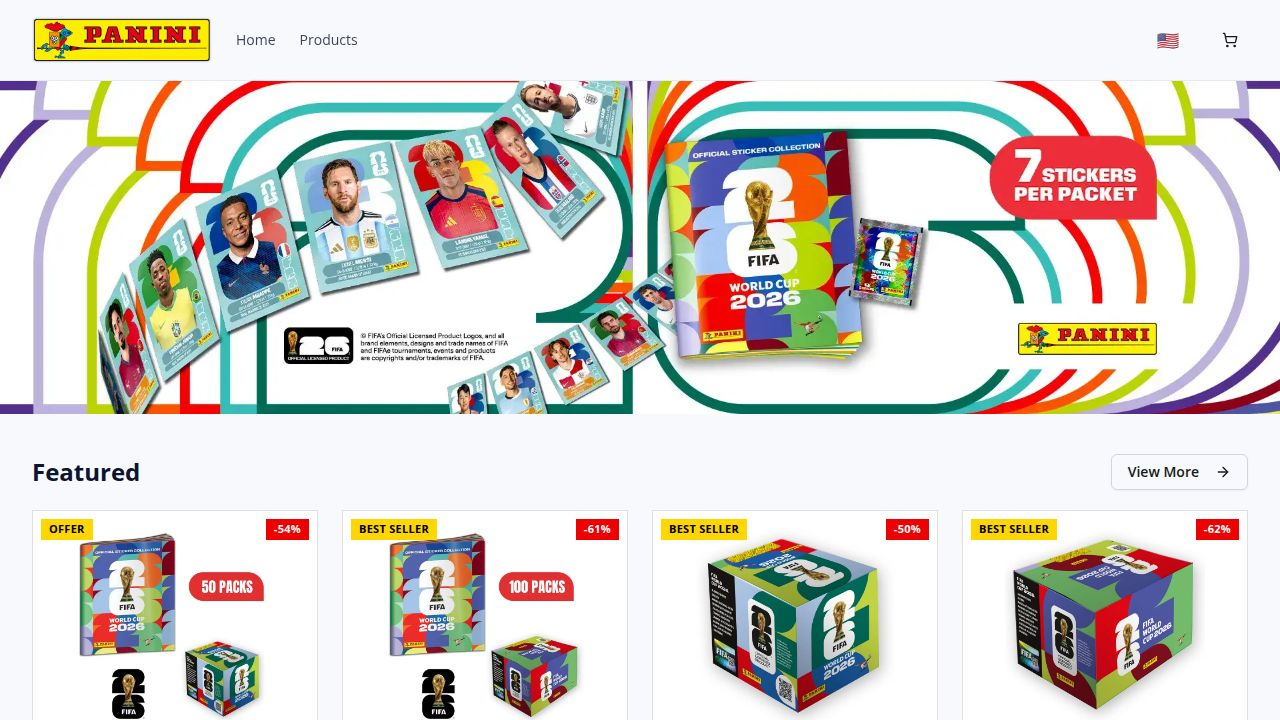
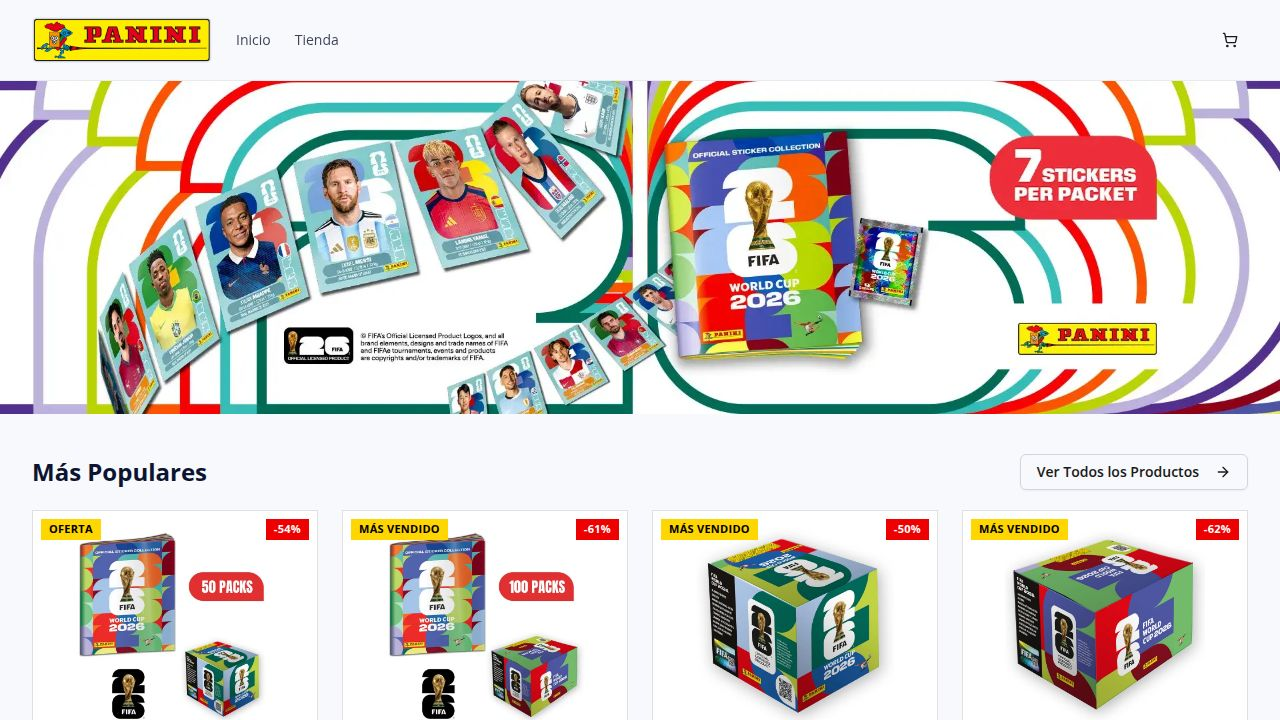
Update website to fully support Spanish language and sales funnel
Refactors the application to enforce Spanish as the default language, updates Spanish translations for sales copy, and changes product routes from `/produtos` to `/productos`.

Replit-Commit-Author: Agent
Replit-Commit-Session-Id: 779bff29-6fea-460b-911e-ac7c88d233c8
Replit-Commit-Checkpoint-Type: full_checkpoint
Replit-Commit-Event-Id: cc9ecb66-04fb-454a-875a-e0b6a70cea38
Replit-Commit-Screenshot-Url: https://storage.googleapis.com/screenshot-production-us-central1/0c2dbdec-3b9e-43bb-9eea-9a149eb06fe9/779bff29-6fea-460b-911e-ac7c88d233c8/kkzJF7l
Replit-Helium-Checkpoint-Created: true

diff --git a/artifacts/panini-wc2026/src/i18n/index.ts b/artifacts/panini-wc2026/src/i18n/index.ts
@@ -1,166 +1,23 @@
 import i18n from 'i18next';
 import { initReactI18next } from 'react-i18next';
 
-import ptBR from './locales/pt-BR.json';
-import en from './locales/en.json';
 import es from './locales/es.json';
-import de from './locales/de.json';
-import fr from './locales/fr.json';
-import it from './locales/it.json';
 
 const resources = {
-  'pt-BR': { translation: ptBR },
-  en: { translation: en },
   es: { translation: es },
-  de: { translation: de },
-  fr: { translation: fr },
-  it: { translation: it },
 };
 
-type SupportedLang = 'pt-BR' | 'en' | 'es' | 'de' | 'fr' | 'it';
-const SUPPORTED: SupportedLang[] = ['pt-BR', 'en', 'es', 'de', 'fr', 'it'];
-
-/**
- * Key for EXPLICIT user choices (clicking the language selector).
- * Separate from old auto-saved key to avoid stale 'en' fallbacks
- * from before French/Italian were added to the supported list.
- */
-const MANUAL_KEY = '_panini_lng_manual';
-
-/**
- * Resolves a raw BCP-47 tag to a supported language using:
- *  1. Exact match (case-insensitive, pt-BR == pt-br)
- *  2. All pt-* variants  → pt-BR  (pt-PT, pt-BR, pt, etc.)
- *  3. Language-prefix match: en-CA → en, es-MX → es, de-AT → de
- */
-function resolveTag(raw: string): SupportedLang | null {
-  const lower = raw.trim().toLowerCase().replace('_', '-');
-  const exact = SUPPORTED.find(s => s.toLowerCase() === lower);
-  if (exact) return exact;
-  const prefix = lower.split('-')[0];
-  if (prefix === 'pt') return 'pt-BR';
-  return SUPPORTED.find(s => s.toLowerCase().split('-')[0] === prefix) ?? null;
-}
-
-/**
- * Walks an ordered candidate list and returns the first supported language.
- * Returns { lang, confident: false } only when no candidate matched at all.
- */
-function pickLanguage(candidates: readonly string[]): { lang: SupportedLang; confident: boolean } {
-  for (const raw of candidates) {
-    const resolved = resolveTag(raw);
-    if (resolved) return { lang: resolved, confident: true };
-  }
-  return { lang: 'en', confident: false };
-}
-
-/**
- * Country → language map for IP-based fallback.
- * Only maps to non-English languages; missing entries fall back to English.
- */
-const COUNTRY_LANG: Record<string, SupportedLang> = {
-  BR: 'pt-BR', PT: 'pt-BR', AO: 'pt-BR', MZ: 'pt-BR', CV: 'pt-BR',
-  ST: 'pt-BR', GW: 'pt-BR', TL: 'pt-BR',
-  DE: 'de', AT: 'de', LI: 'de', CH: 'de',
-  ES: 'es', MX: 'es', AR: 'es', CO: 'es', CL: 'es', PE: 'es',
-  VE: 'es', EC: 'es', BO: 'es', PY: 'es', UY: 'es', CU: 'es',
-  DO: 'es', GT: 'es', HN: 'es', SV: 'es', NI: 'es', CR: 'es',
-  PA: 'es', PR: 'es', GQ: 'es',
-  FR: 'fr', BE: 'fr', LU: 'fr', MC: 'fr', CI: 'fr', SN: 'fr',
-  CM: 'fr', MA: 'fr', DZ: 'fr', TN: 'fr', BF: 'fr', ML: 'fr',
-  NE: 'fr', TD: 'fr', CG: 'fr', CD: 'fr', MG: 'fr', BJ: 'fr',
-  GA: 'fr', TG: 'fr', GN: 'fr', RW: 'fr', BI: 'fr', DJ: 'fr',
-  KM: 'fr', CF: 'fr', HT: 'fr',
-  IT: 'it', SM: 'it', VA: 'it',
-};
-
-/**
- * Load explicit manual language choice saved by the language selector.
- * Ignores the legacy auto-saved key (_panini_lng) which could have been
- * set to 'en' as a fallback for FR/IT users before those languages existed.
- */
-function loadManual(): SupportedLang | null {
-  try {
-    const v = localStorage.getItem(MANUAL_KEY);
-    return v && SUPPORTED.includes(v as SupportedLang) ? (v as SupportedLang) : null;
-  } catch { return null; }
-}
-
-/**
- * Persist an EXPLICIT user choice (only called from the language selector).
- * This is the only place we write to storage — auto-detected languages are
- * never persisted so they don't block future correct browser detection.
- */
-export function saveExplicitLang(lang: string): void {
-  try { localStorage.setItem(MANUAL_KEY, lang); } catch { /* blocked */ }
-}
-
-/**
- * Async IP-based detection via ipapi.co.
- * Falls back gracefully; returns null on any failure.
- */
-async function detectByIP(): Promise<SupportedLang | null> {
-  try {
-    const controller = new AbortController();
-    const timeout = setTimeout(() => controller.abort(), 3000);
-    const res = await fetch('https://ipapi.co/json/', { signal: controller.signal });
-    clearTimeout(timeout);
-    if (!res.ok) return null;
-
-    const data: { country_code?: string; languages?: string } = await res.json();
-
-    let lang: SupportedLang | null = null;
-
-    if (data.languages) {
-      const { lang: l, confident } = pickLanguage(data.languages.split(','));
-      if (confident) lang = l;
-    }
-
-    if (!lang && data.country_code) {
-      lang = COUNTRY_LANG[data.country_code] ?? null;
-    }
-
-    return lang;
-  } catch {
-    return null;
-  }
-}
-
-// ─── Language resolution order ────────────────────────────────────────────────
-// 1. Explicit manual choice (localStorage MANUAL_KEY) — always wins
-// 2. Browser navigator.languages (synchronous, no network)
-// 3. IP geolocation (async, only when browser detection was inconclusive)
-// 4. English as universal fallback
-
-const browserLangs: readonly string[] =
-  typeof navigator !== 'undefined'
-    ? (navigator.languages?.length ? [...navigator.languages] : [navigator.language ?? 'en'])
-    : ['en'];
-
-const manual = loadManual();
-const { lang: browserLang, confident } = pickLanguage(browserLangs);
-
-// Manual explicit choice wins; otherwise use what the browser reports
-const initialLang: SupportedLang = manual ?? browserLang;
-
+// Store is Spanish-only — no language detection needed
 i18n
   .use(initReactI18next)
   .init({
     resources,
-    lng: initialLang,
-    fallbackLng: 'en',
+    lng: 'es',
+    fallbackLng: 'es',
     interpolation: { escapeValue: false }
   });
 
-// ─── Async IP refinement ──────────────────────────────────────────────────────
-// Only fires when there is no manual preference AND the browser provided no
-// recognisable language (e.g. user in Japan with browser set to 'ja').
-if (!manual && !confident) {
-  detectByIP().then(lang => {
-    if (lang && lang !== i18n.language) {
-      i18n.changeLanguage(lang);
-    }
-  });
-}
+// No-op kept for compatibility with any callers
+export function saveExplicitLang(_lang: string): void {}
 
 export default i18n;

diff --git a/artifacts/panini-wc2026/src/components/Header.tsx b/artifacts/panini-wc2026/src/components/Header.tsx
@@ -5,31 +5,13 @@ import { ShoppingCart } from 'lucide-react';
 import { useQueryClient } from '@tanstack/react-query';
 import { useCart } from '../contexts/CartContext';
 import { Button } from './ui/button';
-import {
-  DropdownMenu,
-  DropdownMenuContent,
-  DropdownMenuItem,
-  DropdownMenuTrigger,
-} from "./ui/dropdown-menu";
 import logo from '@assets/Panini-logo_1780421261996.webp';
-import { saveExplicitLang } from '../i18n';
-
-const languages = [
-  { code: 'pt-BR', label: 'Português', flag: '🇧🇷' },
-  { code: 'en', label: 'English', flag: '🇺🇸' },
-  { code: 'es', label: 'Español', flag: '🇪🇸' },
-  { code: 'de', label: 'Deutsch', flag: '🇩🇪' },
-  { code: 'fr', label: 'Français', flag: '🇫🇷' },
-  { code: 'it', label: 'Italiano', flag: '🇮🇹' },
-];
 
 export function Header() {
-  const { t, i18n } = useTranslation();
+  const { t } = useTranslation();
   const { totalItems, setIsCartOpen } = useCart();
   const queryClient = useQueryClient();
   const [, navigate] = useLocation();
-
-  const currentLang = languages.find(l => l.code === i18n.language) || languages[0];
 
   const handleHomeClick = (e: React.MouseEvent) => {
     e.preventDefault();
@@ -49,34 +31,13 @@ export function Header() {
             <a href="/" onClick={handleHomeClick} className="transition-colors hover:text-primary text-foreground/80 cursor-pointer">
               {t('nav.home')}
             </a>
-            <Link href="/produtos" className="transition-colors hover:text-primary text-foreground/80">
+            <Link href="/productos" className="transition-colors hover:text-primary text-foreground/80">
               {t('nav.catalog')}
             </Link>
           </nav>
         </div>
 
         <div className="flex items-center gap-4">
-          <DropdownMenu>
-            <DropdownMenuTrigger asChild>
-              <Button variant="ghost" size="sm" className="w-14 px-2 text-lg font-bold flex gap-1">
-                <span>{currentLang.flag}</span>
-                <span className="sr-only">{t('nav.language')}</span>
-              </Button>
-            </DropdownMenuTrigger>
-            <DropdownMenuContent align="end">
-              {languages.map((lang) => (
-                <DropdownMenuItem
-                  key={lang.code}
-                  onClick={() => { saveExplicitLang(lang.code); i18n.changeLanguage(lang.code); }}
-                  className="cursor-pointer flex items-center gap-2 font-medium"
-                >
-                  <span className="text-lg w-6">{lang.flag}</span>
-                  <span>{lang.label}</span>
-                </DropdownMenuItem>
-              ))}
-            </DropdownMenuContent>
-          </DropdownMenu>
-
           <Button
             variant="ghost"
             size="icon"
@@ -91,7 +52,6 @@ export function Header() {
             )}
             <span className="sr-only">{t('nav.cart')}</span>
           </Button>
-
         </div>
       </div>
     </header>

diff --git a/artifacts/panini-wc2026/src/pages/order-confirmation.tsx b/artifacts/panini-wc2026/src/pages/order-confirmation.tsx
@@ -220,7 +220,7 @@ export default function OrderConfirmation() {
       <div className="min-h-[60vh] flex flex-col items-center justify-center p-4">
         <h1 className="text-2xl font-bold mb-4">{t('checkout.invalidSession')}</h1>
         <Button asChild>
-          <Link href="/produtos">{t('buttons.backToStore')}</Link>
+          <Link href="/productos">{t('buttons.backToStore')}</Link>
         </Button>
       </div>
     );
@@ -244,7 +244,7 @@ export default function OrderConfirmation() {
         <p className="text-destructive font-bold text-xl mb-4">{t('checkout.verifyError')}</p>
         <p className="text-muted-foreground mb-8">{t('checkout.verifyErrorDetail')}</p>
         <Button asChild>
-          <Link href="/produtos">{t('buttons.backToStore')}</Link>
+          <Link href="/productos">{t('buttons.backToStore')}</Link>
         </Button>
       </div>
     );

diff --git a/artifacts/panini-wc2026/src/pages/checkout.tsx b/artifacts/panini-wc2026/src/pages/checkout.tsx
@@ -506,7 +506,7 @@ export default function CheckoutPage() {
         <ShoppingCart className="h-16 w-16 text-muted-foreground mb-4" />
         <h2 className="text-2xl font-bold mb-2">{t('cart.empty')}</h2>
         <Button asChild className="mt-4">
-          <Link href="/produtos">{t('buttons.continueShopping')}</Link>
+          <Link href="/productos">{t('buttons.continueShopping')}</Link>
         </Button>
       </div>
     );
@@ -537,7 +537,7 @@ export default function CheckoutPage() {
       <div className="container max-w-3xl px-4 mx-auto">
         <div className="mb-8">
           <Button variant="ghost" asChild className="mb-4 -ml-2 text-muted-foreground">
-            <Link href="/produtos">
+            <Link href="/productos">
               <ArrowLeft className="mr-2 h-4 w-4" />
               {t('buttons.continueShopping')}
             </Link>

diff --git a/artifacts/panini-wc2026/src/App.tsx b/artifacts/panini-wc2026/src/App.tsx
@@ -31,8 +31,8 @@ function Router() {
       <Suspense fallback={null}>
         <Switch>
           <Route path="/" component={Home} />
-          <Route path="/produtos" component={Catalog} />
-          <Route path="/produtos/:id" component={ProductDetail} />
+          <Route path="/productos" component={Catalog} />
+          <Route path="/productos/:id" component={ProductDetail} />
           <Route path="/checkout" component={CheckoutPage} />
           <Route path="/pedido/confirmado" component={OrderConfirmation} />
           <Route component={NotFound} />

diff --git a/artifacts/panini-wc2026/src/pages/product.tsx b/artifacts/panini-wc2026/src/pages/product.tsx
@@ -120,7 +120,7 @@ export default function ProductDetail() {
         <nav className="text-[13px] text-[#666] mb-6">
           <Link href="/" className="hover:underline">{t('nav.home')}</Link>
           <span className="mx-2">›</span>
-          <Link href="/produtos" className="hover:underline">{t('nav.catalog')}</Link>
+          <Link href="/productos" className="hover:underline">{t('nav.catalog')}</Link>
           <span className="mx-2">›</span>
           <span className="text-[#1a1a1a]">{translation.name}</span>
         </nav>

diff --git a/artifacts/panini-wc2026/src/components/ProductCard.tsx b/artifacts/panini-wc2026/src/components/ProductCard.tsx
@@ -61,7 +61,7 @@ export function ProductCard({ product }: ProductCardProps) {
     ).format(val);
 
   return (
-    <Link href={`/produtos/${product.id}`}>
+    <Link href={`/productos/${product.id}`}>
       <div className="panini-card group cursor-pointer flex flex-col h-full bg-white border border-[#e0e0e0] hover:border-[#999] transition-colors duration-200">
         {/* Image area */}
         <div className="relative bg-white p-4 flex items-center justify-center" style={{ minHeight: '220px' }}>

diff --git a/artifacts/panini-wc2026/src/pages/home.tsx b/artifacts/panini-wc2026/src/pages/home.tsx
@@ -34,7 +34,7 @@ export default function Home() {
               {t('labels.featured')}
             </h2>
             <Button variant="outline" asChild className="font-semibold border border-border hover:bg-muted text-sm h-9 flex-shrink-0">
-              <Link href="/produtos">
+              <Link href="/productos">
                 {t('buttons.viewMore')}
                 <ArrowRight className="ml-2 h-4 w-4" />
               </Link>
